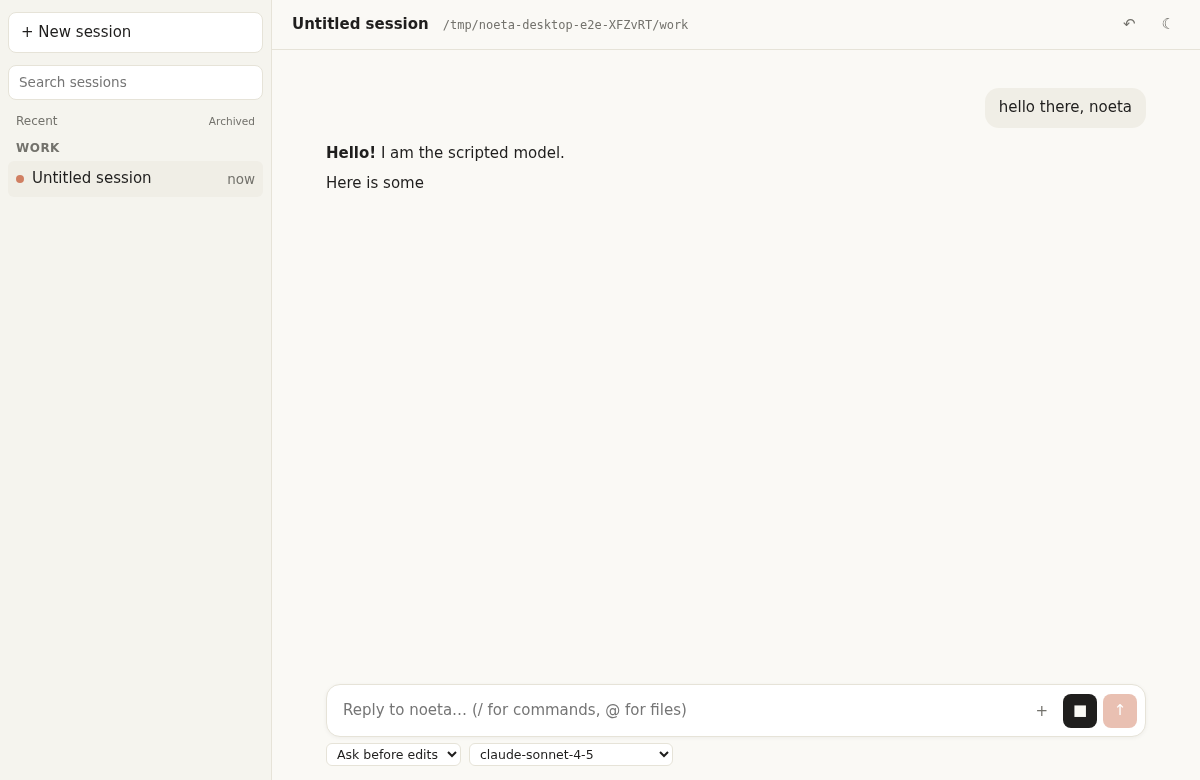
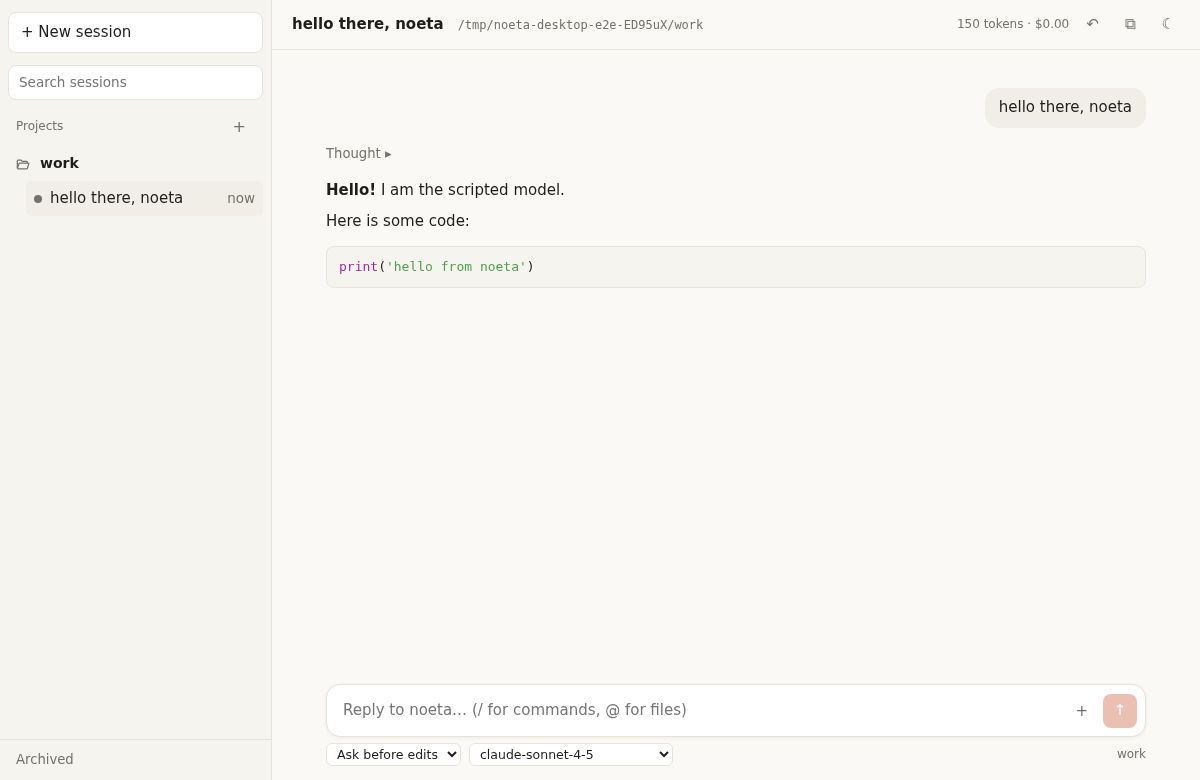
Desktop: a chosen folder is saved as the server's project; open on the last one
The native picker (the page's Add project, File > Add Project..., Cmd/Ctrl+O)
saves the folder through POST /projects once the server may run there
(after the --allow-root restart when it needs one); the last project is
saved on each launch too, so the page opens on it and lists it. A project
picked in the page is remembered for the next launch (setProject on the
bridge). The install line names the PyPI package with the tui and server
extras.

diff --git a/desktop/src/main.ts b/desktop/src/main.ts
@@ -3,7 +3,7 @@ import { app, BrowserWindow, dialog, ipcMain, Menu, nativeTheme, Notification, s
 import { existsSync } from "node:fs";
 import { homedir } from "node:os";
 import { join, resolve } from "node:path";
-import { findNoeta, freePort, freshToken, INSTALL_LINE, isUnder, ServerError, startServer, type PageConfig, type Running } from "./server";
+import { findNoeta, freePort, freshToken, INSTALL_LINE, isUnder, saveProject, ServerError, startServer, type PageConfig, type Running } from "./server";
 import { addRoot, loadSettings, saveSettings, visibleBounds, type Settings } from "./settings";
 import { CHANNELS, errorPage, GRANTED_PERMISSIONS, linkTarget, liveSessions, menuTemplate, type PageCommand } from "./shell";
 
@@ -84,6 +84,8 @@ async function openPage(): Promise<void> {
     if (!server) {
       server = await launch();
       watchExit(server);
+      // The page opens on the last project: the server lists it (one chosen by an older app too).
+      if (settings.project && existsSync(settings.project)) await saveProject(server, settings.project);
     }
     await window.loadURL(`${server.url}/`);
   } catch (e) {
@@ -130,7 +132,7 @@ async function restartServer(): Promise<void> {
 async function chooseProject(): Promise<string | null> {
   if (!window) return null;
   const got = await dialog.showOpenDialog(window, {
-    title: "Choose a project folder",
+    title: "Add a project folder",
     defaultPath: project(),
     properties: ["openDirectory", "createDirectory"],
   });
@@ -142,8 +144,12 @@ async function chooseProject(): Promise<string | null> {
   if (outside && !(await confirmRestart())) return null;
   settings = { ...settings, project: dir, roots: outside ? addRoot(settings.roots, dir) : settings.roots };
   saveSettings(settingsPath, settings);
+  // A restart saves it as the server's project on the way up.
   if (outside) await restartServer();
-  else send({ name: "project", path: dir });
+  else {
+    if (server) await saveProject(server, dir);
+    send({ name: "project", path: dir });
+  }
   return dir;
 }
 
@@ -208,6 +214,12 @@ function wire(): void {
   });
   ipcMain.handle(CHANNELS.project, () => project());
   ipcMain.handle(CHANNELS.chooseProject, () => chooseProject());
+  // The project picked in the page: the window opens on it next time.
+  ipcMain.on(CHANNELS.setProject, (_e, path: unknown) => {
+    if (typeof path !== "string" || !path || path === settings.project || !existsSync(path)) return;
+    settings = { ...settings, project: path };
+    saveSettings(settingsPath, settings);
+  });
   ipcMain.on(CHANNELS.notify, (_e, n: { title?: unknown; body?: unknown; taskId?: unknown }) => {
     if (!window || window.isFocused() || !Notification.isSupported()) return;
     const note = new Notification({ title: String(n.title ?? "noeta"), body: String(n.body ?? "") });

diff --git a/desktop/test/server.test.ts b/desktop/test/server.test.ts
@@ -9,6 +9,7 @@ import {
   freshToken,
   INSTALL_LINE,
   isUnder,
+  saveProject,
   serveArgs,
   serveEnv,
   ServerError,
@@ -82,7 +83,7 @@ describe("findNoeta", () => {
   });
 
   it("names an install line with the server extra", () => {
-    expect(INSTALL_LINE).toContain("noeta[server]");
+    expect(INSTALL_LINE).toContain("noeta[tui,server]");
   });
 });
 
@@ -186,5 +187,19 @@ describe("startServer", () => {
     }) as unknown as Spawn;
     const err = await startServer(options, { spawn, fetch: async () => Promise.reject(new Error("no")) }).catch((e: unknown) => e);
     expect((err as Error).message).toContain("spawn EACCES");
+  });
+});
+
+describe("saveProject", () => {
+  it("posts the folder with the token, and says false when the server refuses it or keeps no projects", async () => {
+    const post = vi.fn(async () => ({ ok: true }));
+    expect(await saveProject({ url: "http://127.0.0.1:9", token: "tok" }, "/srv/repo", post)).toBe(true);
+    expect(post).toHaveBeenCalledWith("http://127.0.0.1:9/projects", {
+      method: "POST",
+      headers: { authorization: "Bearer tok", "content-type": "application/json" },
+      body: JSON.stringify({ path: "/srv/repo" }),
+    });
+    expect(await saveProject({ url: "u", token: "t" }, "/x", async () => ({ ok: false }))).toBe(false);
+    expect(await saveProject({ url: "u", token: "t" }, "/x", () => Promise.reject(new Error("down")))).toBe(false);
   });
 });

diff --git a/desktop/src/server.ts b/desktop/src/server.ts
@@ -8,7 +8,7 @@ import { homedir } from "node:os";
 import { delimiter, join, relative, isAbsolute } from "node:path";
 
 /** What to run when `noeta` is missing (`serve` needs the server extra). */
-export const INSTALL_LINE = "uv tool install 'noeta[server] @ git+https://github.com/initxy/noeta'";
+export const INSTALL_LINE = "uv tool install 'noeta[tui,server]'";
 
 function executable(path: string): boolean {
   try {
@@ -117,6 +117,26 @@ export class ServerError extends Error {
     readonly output = "",
   ) {
     super(message);
+  }
+}
+
+/** Saves `dir` as one of the server's projects (`POST /projects`): the page
+ * lists it from then on. False when the server refused it or keeps none
+ * (an older noeta): the page still runs sessions there. */
+export async function saveProject(
+  s: { url: string; token: string },
+  dir: string,
+  post: (url: string, init: { method: string; headers: Record<string, string>; body: string }) => Promise<{ ok: boolean }> = fetch,
+): Promise<boolean> {
+  try {
+    const resp = await post(`${s.url}/projects`, {
+      method: "POST",
+      headers: { authorization: `Bearer ${s.token}`, "content-type": "application/json" },
+      body: JSON.stringify({ path: dir }),
+    });
+    return resp.ok;
+  } catch {
+    return false;
   }
 }
 

diff --git a/desktop/src/shell.ts b/desktop/src/shell.ts
@@ -7,6 +7,7 @@ export const CHANNELS = {
   config: "noeta:config",
   project: "noeta:project",
   chooseProject: "noeta:choose-project",
+  setProject: "noeta:set-project",
   notify: "noeta:notify",
   /** main -> page: a menu command or a notification clicked. */
   command: "noeta:command",
@@ -31,7 +32,7 @@ export function menuTemplate(platform: string, dev: boolean, a: MenuActions): Me
   const settings: MenuItemConstructorOptions = { label: "Settings…", accelerator: "CmdOrCtrl+,", click: a.openSettings };
   const file: MenuItemConstructorOptions[] = [
     { label: "New Session", accelerator: "CmdOrCtrl+N", click: a.newSession },
-    { label: "Open Project Folder…", accelerator: "CmdOrCtrl+O", click: a.chooseProject },
+    { label: "Add Project…", accelerator: "CmdOrCtrl+O", click: a.chooseProject },
     { type: "separator" },
     ...(mac ? [] : [settings, { type: "separator" } as const]),
     mac ? { role: "close" } : { role: "quit" },

diff --git a/desktop/test/preload.test.ts b/desktop/test/preload.test.ts
@@ -17,6 +17,7 @@ vi.mock("electron", () => ({
 interface Bridge {
   project(): Promise<string>;
   chooseProject(): Promise<string | null>;
+  setProject(path: string): void;
   notify(n: { title: string; body: string; taskId?: string }): void;
   onCommand(cb: (c: unknown) => void): () => void;
 }
@@ -37,6 +38,8 @@ describe("preload", () => {
     expect(await desk.project()).toBe("/home/me/code");
     await desk.chooseProject();
     expect(ipc.invoke).toHaveBeenCalledWith("noeta:choose-project");
+    desk.setProject("/srv/repo");
+    expect(ipc.send).toHaveBeenCalledWith("noeta:set-project", "/srv/repo");
     desk.notify({ title: "t", body: "b", taskId: "x" });
     expect(ipc.send).toHaveBeenCalledWith("noeta:notify", { title: "t", body: "b", taskId: "x" });
   });

diff --git a/desktop/src/preload.ts b/desktop/src/preload.ts
@@ -12,6 +12,7 @@ contextBridge.exposeInMainWorld("noetaDesktop", {
   platform: process.platform,
   project: (): Promise<string> => ipcRenderer.invoke("noeta:project"),
   chooseProject: (): Promise<string | null> => ipcRenderer.invoke("noeta:choose-project"),
+  setProject: (path: string): void => ipcRenderer.send("noeta:set-project", path),
   notify: (n: { title: string; body: string; taskId?: string }): void => ipcRenderer.send("noeta:notify", n),
   onCommand: (cb: (c: Command) => void): (() => void) => {
     const listener = (_e: IpcRendererEvent, c: Command) => cb(c);

diff --git a/desktop/e2e/app.spec.ts b/desktop/e2e/app.spec.ts
@@ -151,7 +151,7 @@ test("a missing noeta shows the install line", async () => {
   const { app, page } = await launch(dir, work, join(dir, "no-such-noeta"));
   try {
     await expect(page.getByRole("heading", { name: "noeta is not installed" })).toBeVisible();
-    await expect(page.locator("pre.command")).toContainText("noeta[server]");
+    await expect(page.locator("pre.command")).toContainText("noeta[tui,server]");
     await page.screenshot({ path: `${SHOTS}/03-missing-noeta.png` });
   } finally {
     await app.close();

diff --git a/desktop/test/shell.test.ts b/desktop/test/shell.test.ts
@@ -19,7 +19,7 @@ describe("menu", () => {
     const byLabel = (l: string) => all.find((m) => m.label === l)!;
     expect(byLabel("New Session").accelerator).toBe("CmdOrCtrl+N");
     expect(byLabel("Settings…").accelerator).toBe("CmdOrCtrl+,");
-    expect(byLabel("Open Project Folder…").accelerator).toBe("CmdOrCtrl+O");
+    expect(byLabel("Add Project…").accelerator).toBe("CmdOrCtrl+O");
     (byLabel("New Session").click as () => void)();
     expect(a.newSession).toHaveBeenCalled();
   });

diff --git a/desktop/screenshots/README.md b/desktop/screenshots/README.md
@@ -5,7 +5,7 @@ starting its own `noeta serve` on the offline scripted provider, so they are rew
 
 | File | Shows |
 | --- | --- |
-| `01-new-session.png` | a new session in the project folder chosen for it (click the folder to change it) |
+| `01-new-session.png` | a new session in the last project: the projects column, the project's name and path above the composer |
 | `02-reply.png` | the reply, the session's directory in the header |
 | `03-missing-noeta.png` | the window when `noeta` cannot be found: the install line |
 | `04-server-stopped.png` | the window when the local server died: its last output; View > Reload starts it again |
@@ -16,14 +16,14 @@ starting its own `noeta serve` on the offline scripted provider, so they are rew
 | --- | --- |
 | Starts its own local server; nothing to connect or paste | done: `noeta serve` on a free loopback port with a fresh token per launch, stopped on quit |
 | Everything the web app has (sessions, transcript, approvals, pickers, rewind, …) | done: `web/screenshots/README.md` |
-| Project folder for new sessions (File > Open Project Folder…, ⌘O) | done |
+| Projects: add one with the native folder picker (the column's +, File > Add Project…, ⌘O; saved as the server's project), the window opens on the last one | done |
 | Menu: New Session ⌘N, Settings ⌘,, Reload, DevTools (development builds) | done; Settings opens the app's `settings.json`; Reload restarts a server that stopped |
 | A local server that dies is noticed | done: its last output, and Reload to restart; a folder outside the home directory asks before restarting over running sessions |
 | Window size and position remembered; one instance (a second launch focuses it) | done |
 | Links open in the browser | done: only the app's page stays in the window; the server's other paths are refused; the page may only ask for notifications and clipboard writes |
 | System notification when a session needs you or finishes while the window is in the background; clicking it opens the session | done |
 | Light and dark following the OS | done |
-| Installers: macOS dmg, Linux AppImage and deb (`npm run dist`) | configured, not built by the tests; not signed or notarized |
+| Installers: macOS dmg, Linux AppImage and deb | attached to each GitHub Release by the release workflow (`npm run dist`); not signed or notarized |
 | Auto-update, tray icon, global quick-entry shortcut | not yet |
 | Windows | not yet (untested) |
 | Diff review across a session, file tree, terminal pane | not yet (as in `web/`) |
